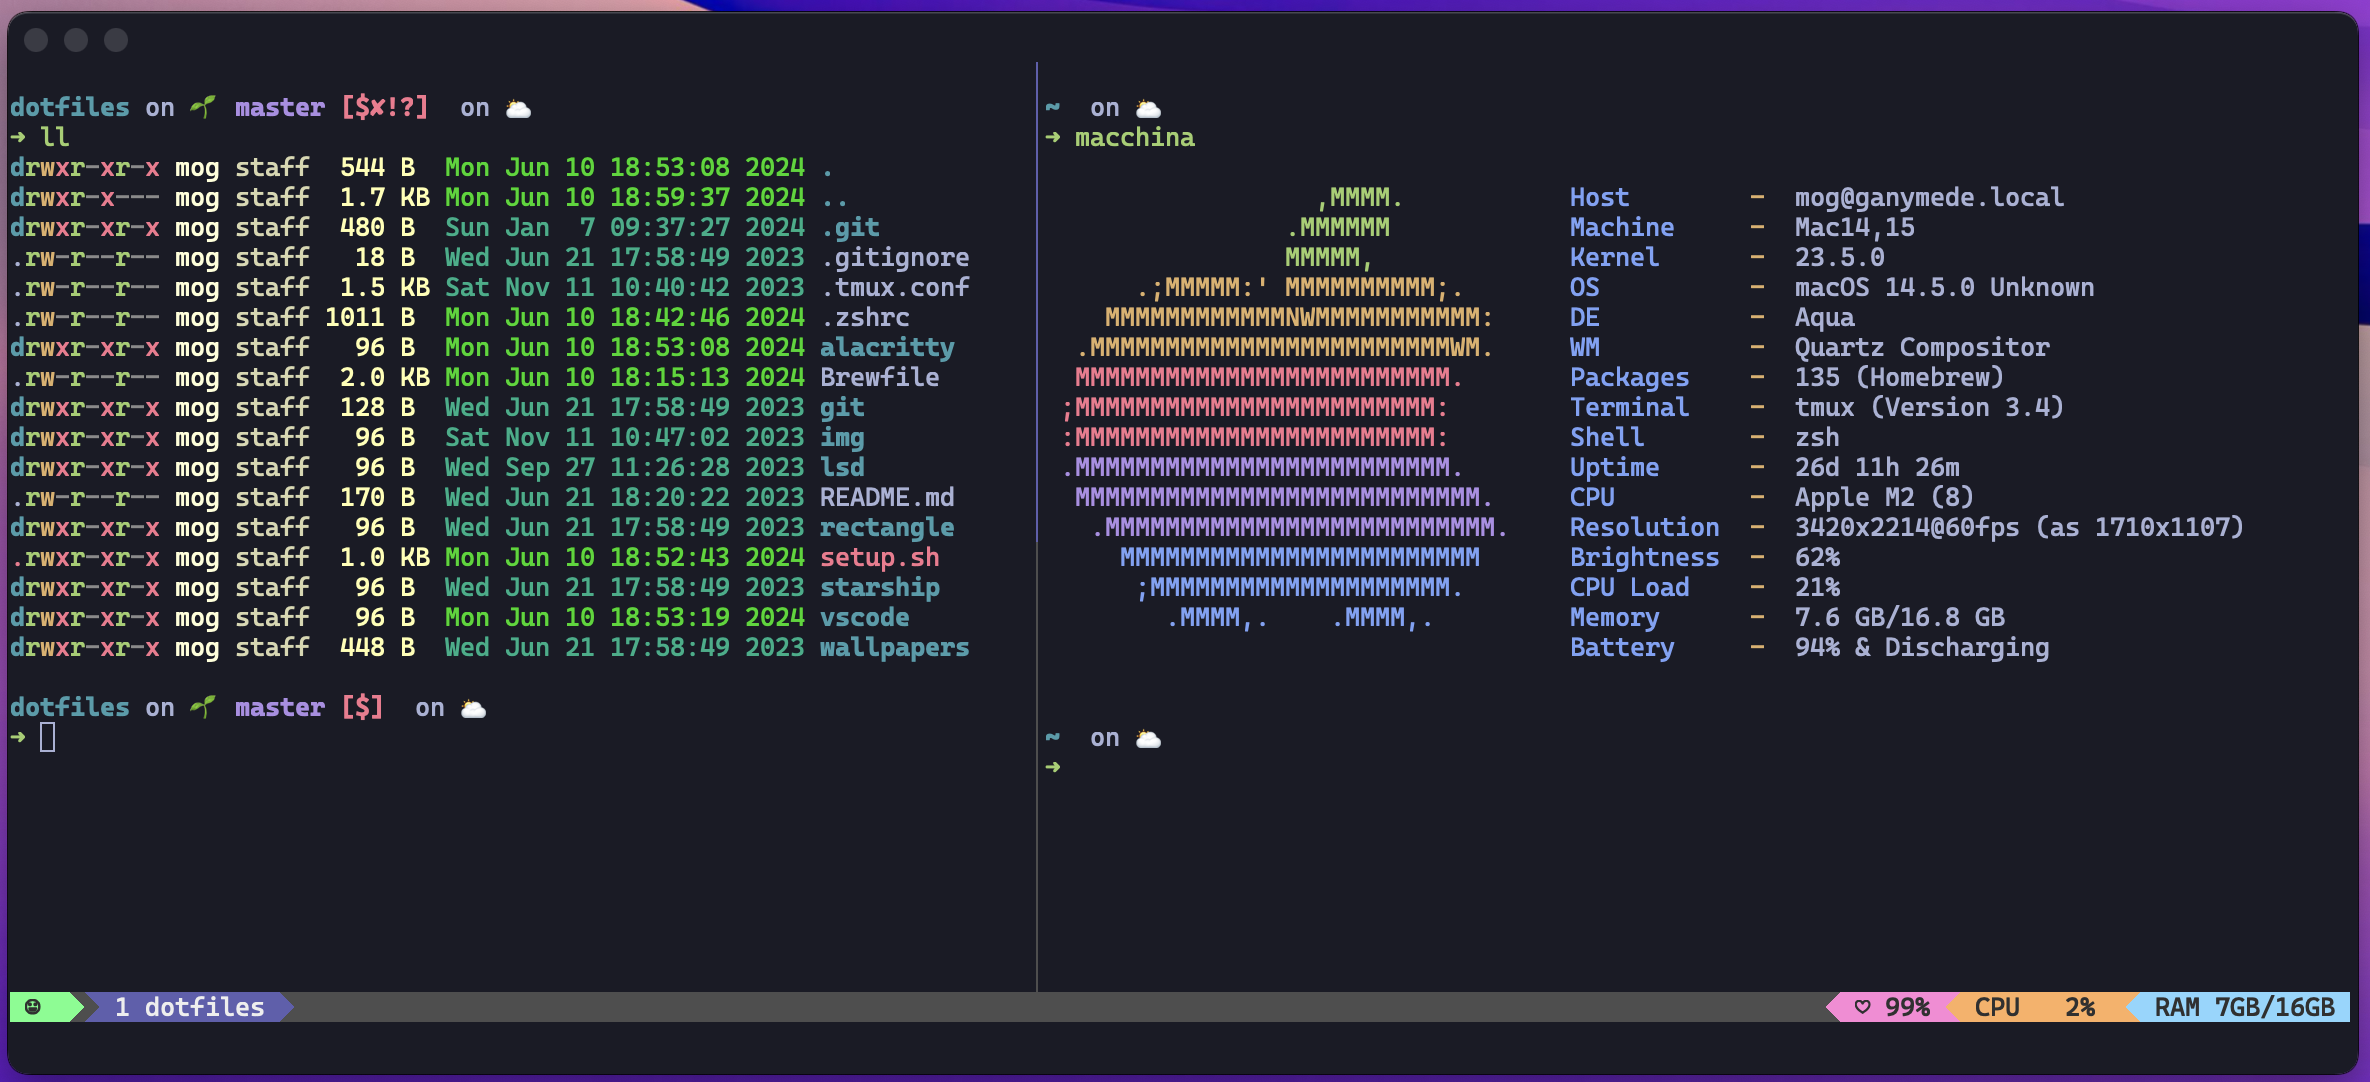
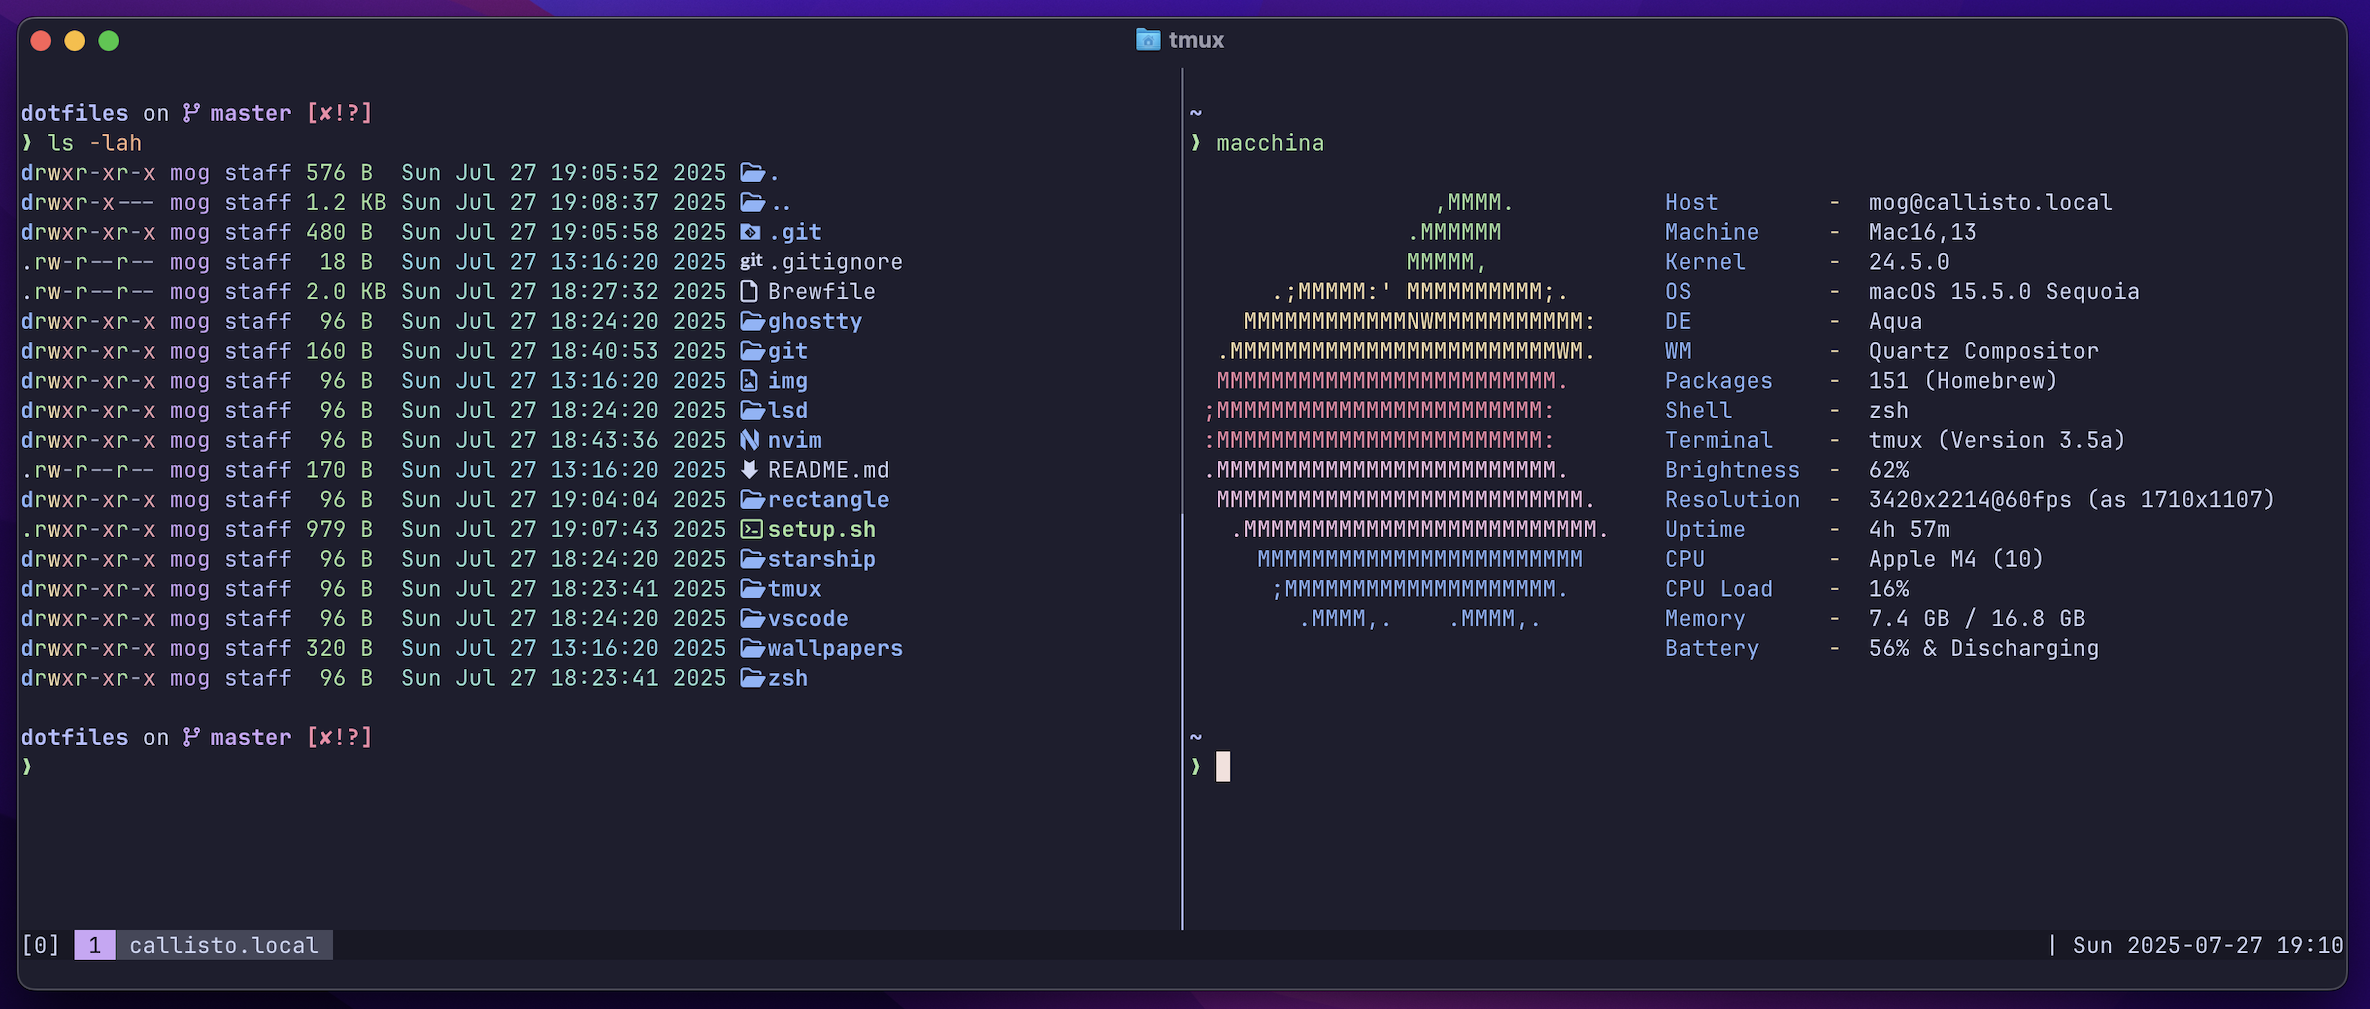
fix: refactor for usage with stow

diff --git a/README.md b/README.md
@@ -1,8 +1,12 @@
 # 🤖 dotfiles
 
 ```bash
+# Run the setup script to bootstrap a machine from scratch
 $ git clone https://github.com/mogopz/dotfiles.git ~/dotfiles
 $ ~/dotfiles/setup.sh
+
+# Sync individual config using Stow
+$ stow -v -d ~/dotfiles -t ~ nvim
 ```
 
 ## Screenshot
